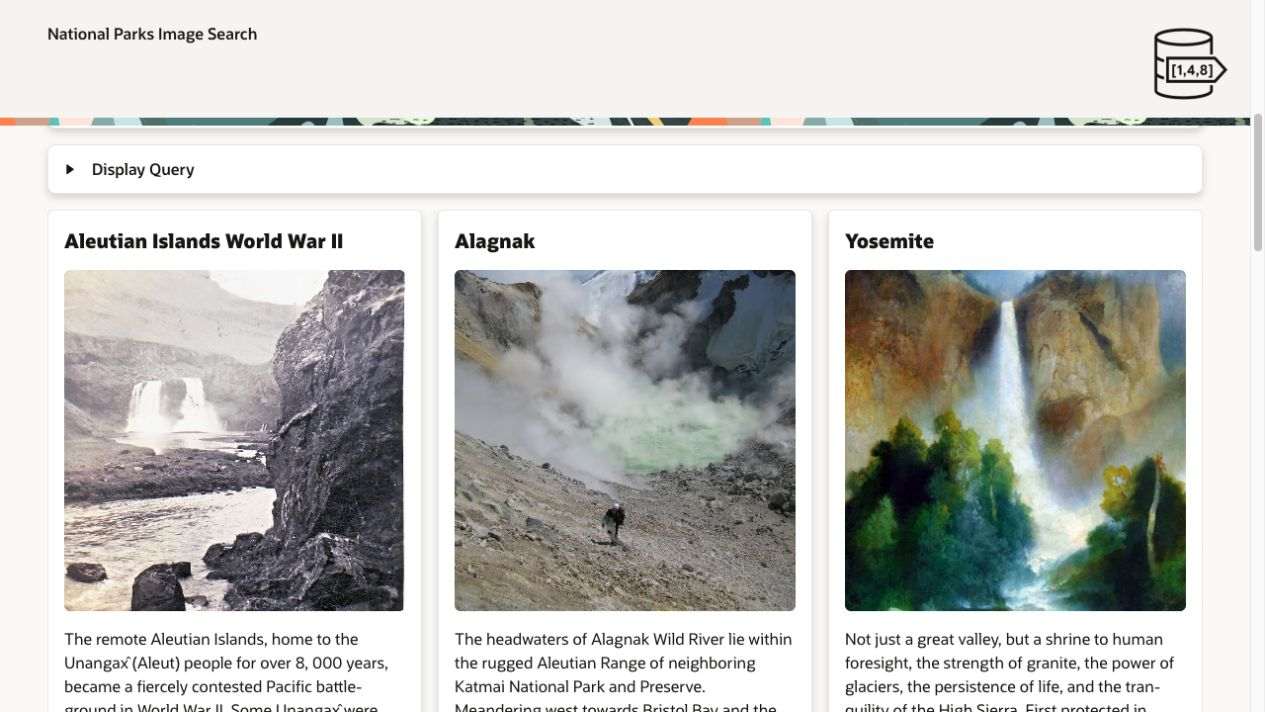
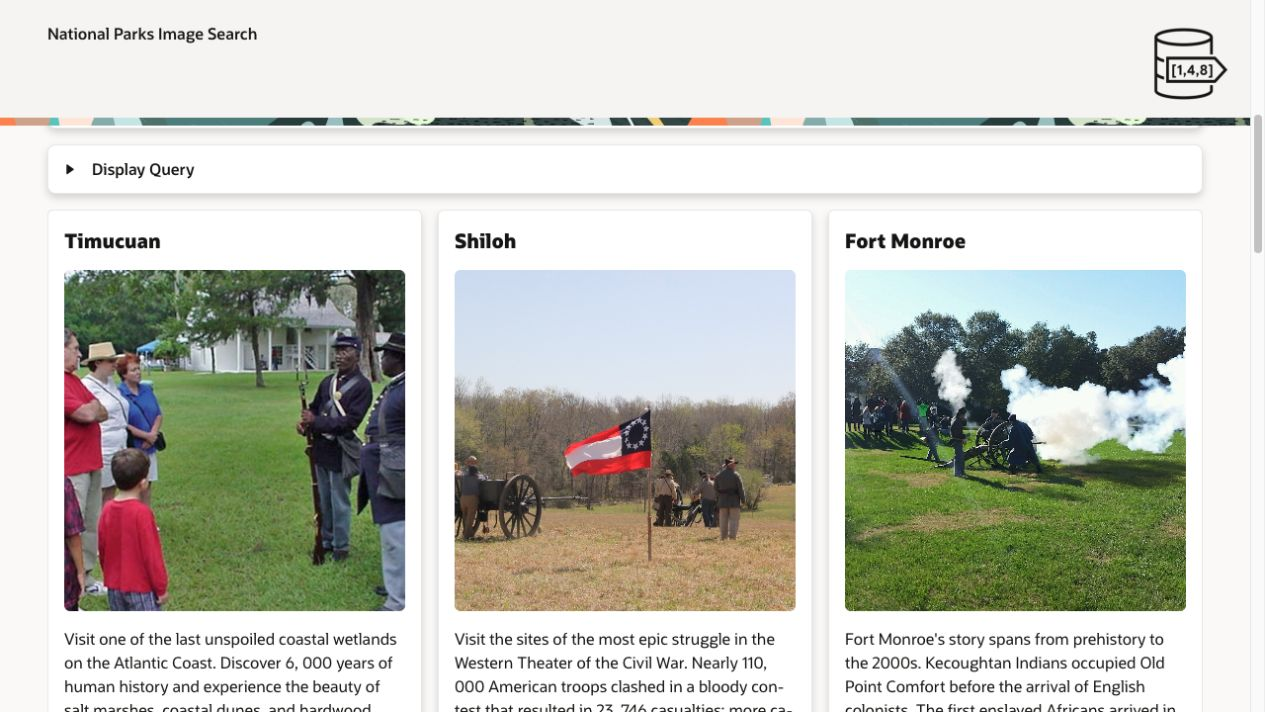
Updates

diff --git a/ai-vector-search-fundamentals-container/6-generate-text/generate-text.md b/ai-vector-search-fundamentals-container/6-generate-text/generate-text.md
@@ -2,7 +2,7 @@
 
 ## Introduction
 
-Vector embeddings let you compare meaning, but they do not produce a written answer. The Private AI Services Container also hosts a large language model (LLM) that Autonomous AI Database Serverless can call from SQL and PL/SQL. The model runs on the container host, while the prompt and generated response remain part of the database workflow.
+Vector embeddings allow you to search for semantically similar unstructured content. Large language models are more general-purpose and can generate answers from an input prompt. The Private AI Services Container can host an LLM that Autonomous AI Database Serverless calls from SQL or PL/SQL. The LLM runs on the container host, while prompts and generated responses remain part of the database workflow.
 
 In this lab, you will call the container's HTTP chat-completions endpoint with `DBMS_VECTOR_CHAIN.UTL_TO_GENERATE_TEXT`. The workshop environment has already configured the container endpoint, private network path, and database network access control list (ACL).
 
@@ -67,7 +67,7 @@ The Terraform deployment stores the reservation-specific container URL in `PRIVA
 
 ## Task 2: Generate Text from PL/SQL
 
-The container includes the `Ministral-3-3B-Reasoning-2512-Q8_0` model. The following block builds the provider configuration as JSON, sends a prompt to `/v1/chat/completions`, and prints the model's response.
+The workshop container includes and serves the `Ministral-3-3B-Reasoning-2512-Q8_0` model. Private AI Services Container can also serve other compatible open-weight models from Hugging Face after they are downloaded and configured. The following block builds the provider configuration as JSON, sends a prompt to `/v1/chat/completions`, and prints the model's response.
 
 1. Run the PL/SQL block as a script.
 
@@ -178,4 +178,4 @@ You have now called the same container from both PL/SQL and SQL. The later RAG l
 
 * **Author** - Andy Rivenes, Product Manager, AI Vector Search
 * **Contributors** - David Start
-* **Last Updated By/Date** - David Start, August 2026
+* **Last Updated By/Date** - David Start, September 2026

diff --git a/ai-vector-search-fundamentals-container/6-apex_demo/apex_demo.md b/ai-vector-search-fundamentals-container/6-apex_demo/apex_demo.md
@@ -53,15 +53,15 @@ The application opens on the National Parks image-search page.
 
 ## Task 2: Search with Text
 
-1. Enter `geysers` in the text-search field and select **Search Text**.
+1. Enter `Civil War` in the text-search field and select **Search Text**.
 
-    ![Geysers entered in the APEX text-search field](images/container-apex-text-entry.png " ")
+    ![Civil War entered in the APEX text-search field](images/container-apex-text-entry.png " ")
 
 2. Review the ten closest image results.
 
-    ![National Parks text search results for geysers](images/container-apex-text-search.png " ")
+    ![National Parks text search results for Civil War](images/container-apex-text-search.png " ")
 
-3. Try another phrase such as `Civil War`, `waterfall`, or `rock climbing`.
+3. Try another phrase such as `arches`, `waterfall`, or `rock climbing`.
 
 For a text search, the application calls `clip-vit-base-patch32-txt`. The returned 512-dimensional vector is compatible with the vectors generated from the stored image BLOBs.
 
@@ -163,4 +163,4 @@ The APEX page computes one search vector with the appropriate function and store
 
 * **Authors** - Andy Rivenes and Markus Kissling, Product Managers, AI Vector Search
 * **Contributors** - David Start
-* **Last Updated By/Date** - David Start, August 2026
+* **Last Updated By/Date** - David Start, September 2026
